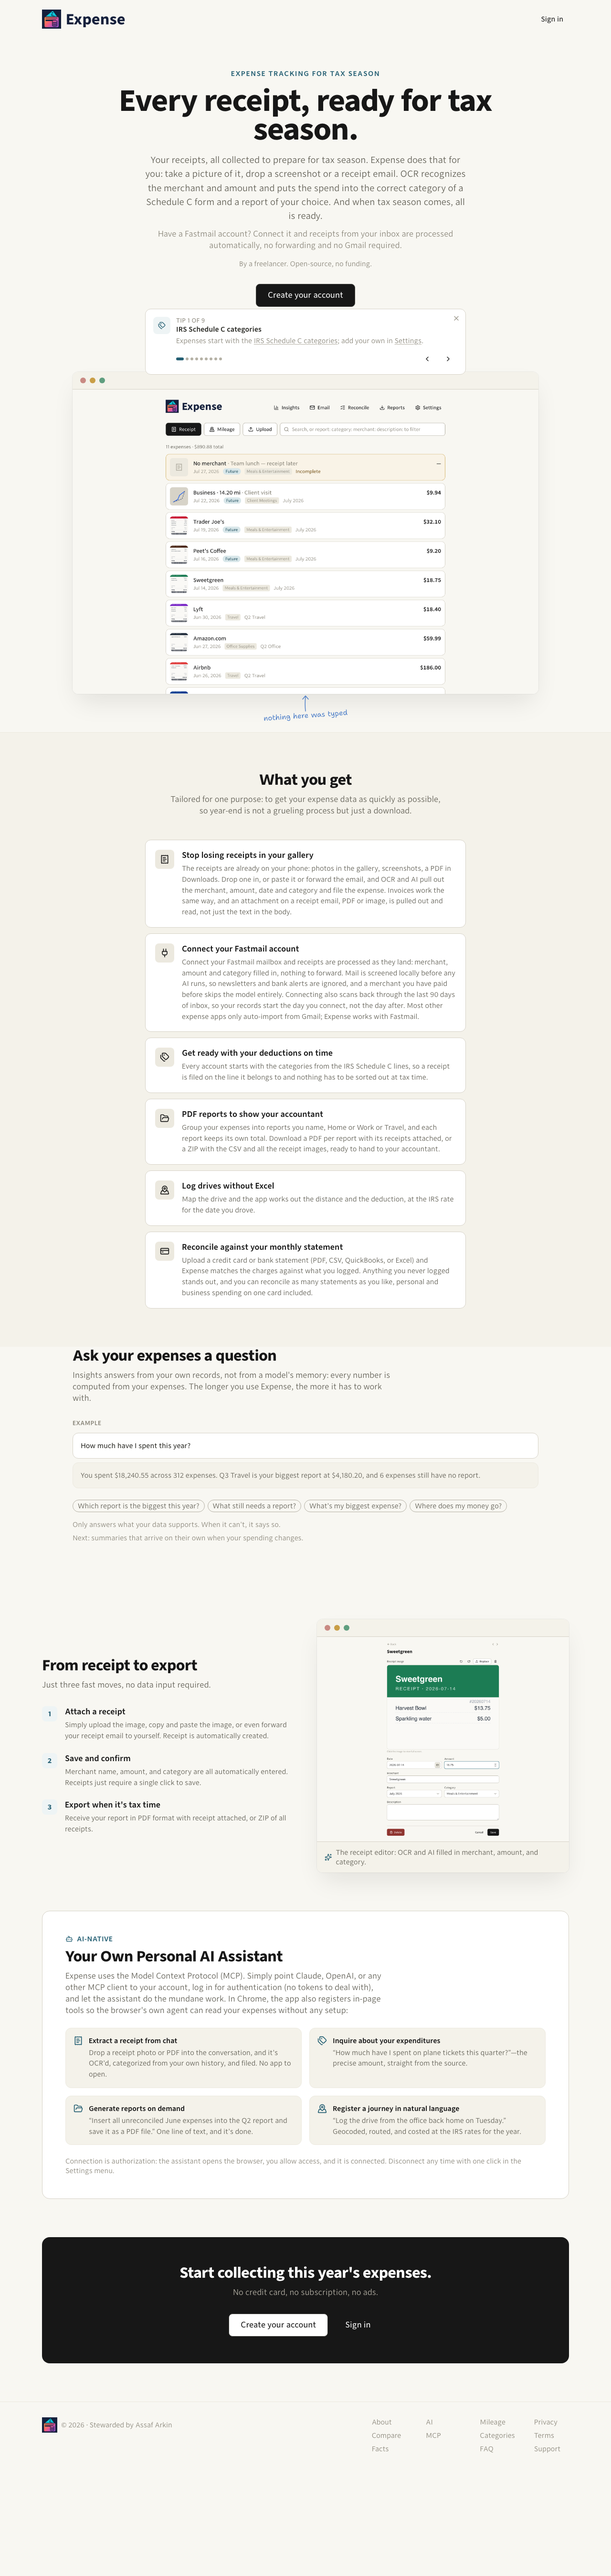
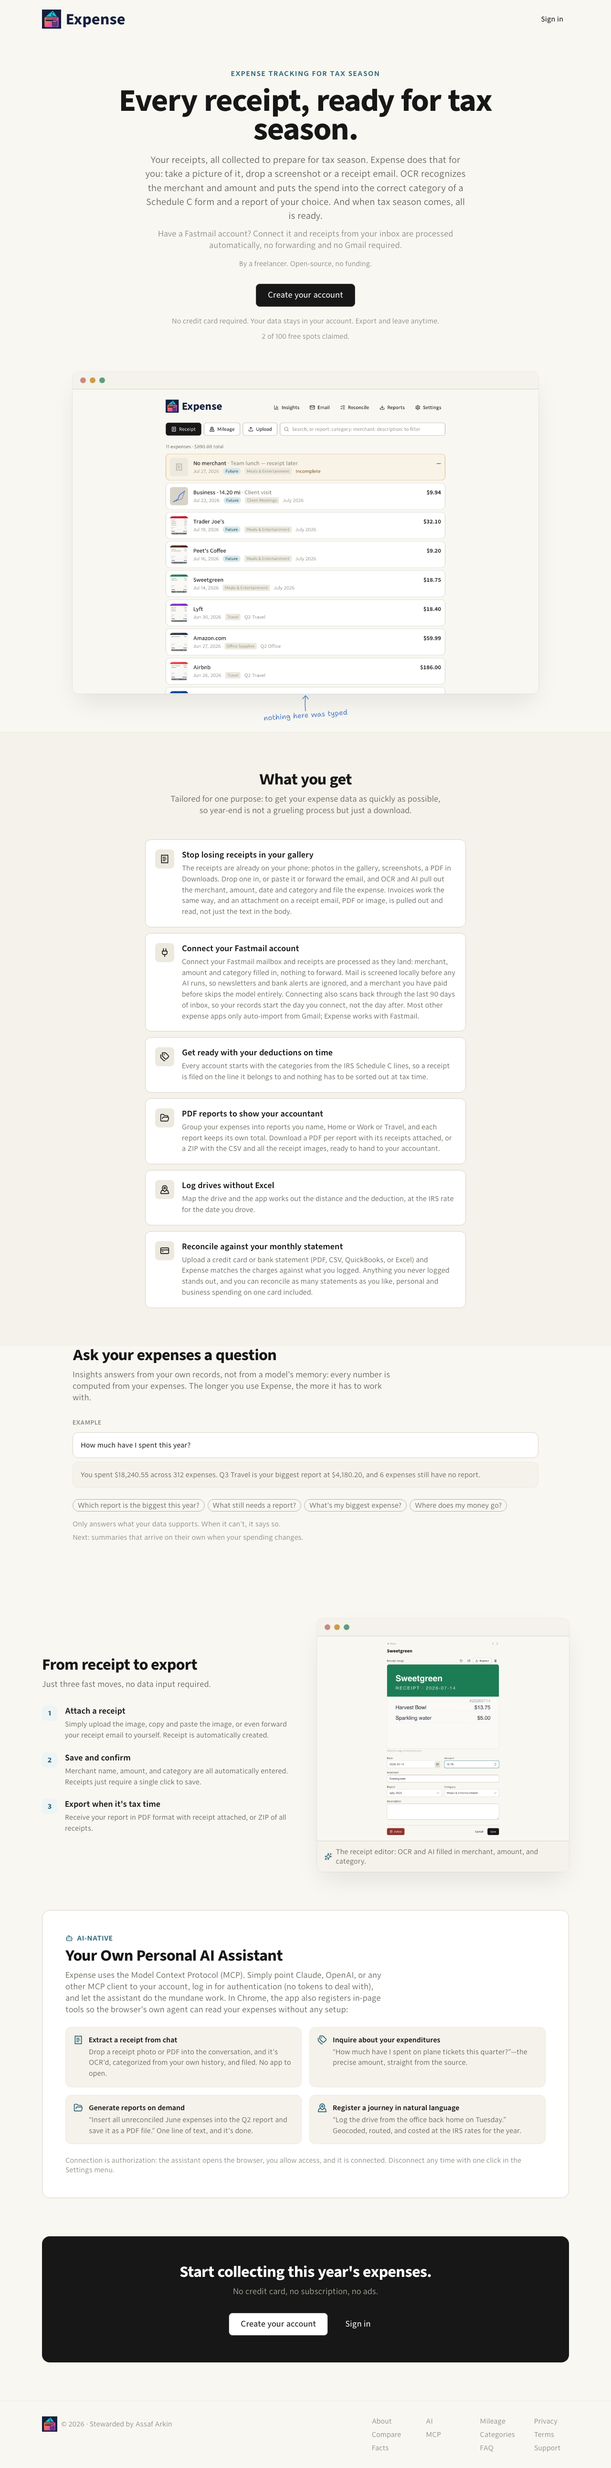
feat(landing): removed tips slider
- Dropped the TipsSlider component, its slide-in keyframes, and dismiss-hiding CSS.
- Removed TIPS_SCRIPT and its parse test along with the SitePage padBottom spacer prop.

diff --git a/app/global.css b/app/global.css
@@ -245,47 +245,6 @@ body {
   }
 }
 
-/* Tips slider (landing page): the incoming tip slides in from the side it
- * is headed toward — next enters from the right, previous from the left.
- * The global reduced-motion rule above neutralizes this when asked. */
-@keyframes tip-enter-next {
-  from {
-    opacity: 0;
-    transform: translateX(24px);
-  }
-  to {
-    opacity: 1;
-    transform: none;
-  }
-}
-
-@keyframes tip-enter-prev {
-  from {
-    opacity: 0;
-    transform: translateX(-24px);
-  }
-  to {
-    opacity: 1;
-    transform: none;
-  }
-}
-
-.tip-enter-next {
-  animation: tip-enter-next 0.3s ease-out;
-}
-
-.tip-enter-prev {
-  animation: tip-enter-prev 0.3s ease-out;
-}
-
-/* Hide the landing tips slider before React hydrates when the visitor
- * dismissed it earlier in this browsing session: the pre-paint script in
- * root.tsx sets the attribute from sessionStorage, so the card never
- * flashes on a reload. */
-html[data-tips-dismissed] .tips-slider {
-  display: none;
-}
-
 /* Respect the user's motion preference — kill all animations and
  * transitions when reduced motion is requested (vestibular disorders,
  * migraine, etc.). Tailwind's animate-* utilities and the progress bar

diff --git a/app/root.tsx b/app/root.tsx
@@ -45,17 +45,6 @@ export const THEME_SCRIPT = `
 })();
 `;
 
-/** Inline script that runs before first paint: if the visitor dismissed the
- * landing tips slider earlier in this browsing session, tag <html> so CSS
- * hides the card before it can flash on a reload. Also parse-checked by
- * test/inline-scripts.test.ts. */
-export const TIPS_SCRIPT = `
-try {
-  if (sessionStorage.getItem("tips-dismissed")) {
-    document.documentElement.setAttribute("data-tips-dismissed", "");
-  }
-} catch (e) {}`;
-
 /** Public marketing/SEO pages (plus their markdown mirrors like /faq.md). */
 const PUBLIC_PAGES = new Set([
   "/about",
@@ -364,7 +353,6 @@ export default function App() {
         the env vars simply don't track. Pageview URLs exclude the query
         string: emailed links carry single-use tokens in ?token=, and the
         tracker must never record them. */}
-        <script dangerouslySetInnerHTML={{ __html: TIPS_SCRIPT }} />
         <script dangerouslySetInnerHTML={{ __html: THEME_SCRIPT }} />
         {process.env.NODE_ENV === "production" && umami?.scriptUrl ? (
           <script

diff --git a/test/inline-scripts.test.ts b/test/inline-scripts.test.ts
@@ -1,10 +1,10 @@
 import { Script } from "node:vm";
 import { describe, expect, it } from "vitest";
-import { TIPS_SCRIPT, THEME_SCRIPT } from "~/root";
+import { THEME_SCRIPT } from "~/root";
 
 /**
- * The inline head scripts are static strings injected via
- * dangerouslySetInnerHTML, so tsc never parses their JS bodies: a malformed
+ * The inline head script is a static string injected via
+ * dangerouslySetInnerHTML, so tsc never parses its JS body: a malformed
  * edit ships silently. THEME_SCRIPT is the only thing that toggles the
  * `dark` class app-wide, so a SyntaxError there kills dark mode on every
  * page with no other symptom than a console error (this actually shipped).
@@ -14,9 +14,5 @@ import { TIPS_SCRIPT, THEME_SCRIPT } from "~/root";
 describe("inline head scripts parse", () => {
   it("THEME_SCRIPT is syntactically valid JS", () => {
     expect(() => new Script(THEME_SCRIPT)).not.toThrow();
-  });
-
-  it("TIPS_SCRIPT is syntactically valid JS", () => {
-    expect(() => new Script(TIPS_SCRIPT)).not.toThrow();
   });
 });

diff --git a/app/components/SitePage.tsx b/app/components/SitePage.tsx
@@ -6,21 +6,12 @@ import { SiteFooter, SiteHeader } from "~/components/SiteChrome";
  * content, and the standard footer. Shares the SiteHeader/SiteFooter used by
  * the LandingPage (see SiteChrome), so every public page looks like one site.
  */
-export function SitePage({
-  children,
-  padBottom = false,
-}: {
-  children: ReactNode;
-  /** Extra space under the footer so the landing page's fixed tips slider
-   * never covers the footer links when scrolled to the bottom. */
-  padBottom?: boolean;
-}) {
+export function SitePage({ children }: { children: ReactNode }) {
   return (
     <div className="min-h-screen bg-canvas">
       <SiteHeader />
       {children}
       <SiteFooter />
-      {padBottom ? <div aria-hidden="true" className="h-72 sm:h-56" /> : null}
     </div>
   );
 }

diff --git a/app/components/LandingPage.tsx b/app/components/LandingPage.tsx
@@ -15,7 +15,6 @@ import { MarketingCta } from "~/components/MarketingPage";
 import { Button } from "~/components/ui/Button";
 import { Card } from "~/components/ui/Card";
 import { SitePage } from "~/components/SitePage";
-import { TipsSlider } from "~/components/tips-slider";
 import { EARLY_ACCESS_SPOTS, SITE_URL } from "~/lib/seo-content";
 import { JsonLd } from "~/components/JsonLd";
 
@@ -159,7 +158,7 @@ export default function LandingPage({
     });
 
   return (
-    <SitePage padBottom>
+    <SitePage>
       <JsonLd data={SOFTWARE_SCHEMA} />
 
       <main>
@@ -405,7 +404,6 @@ export default function LandingPage({
             secondaryClassName="bg-transparent"
           />
         </section>
-        <TipsSlider />
       </main>
     </SitePage>
   );
